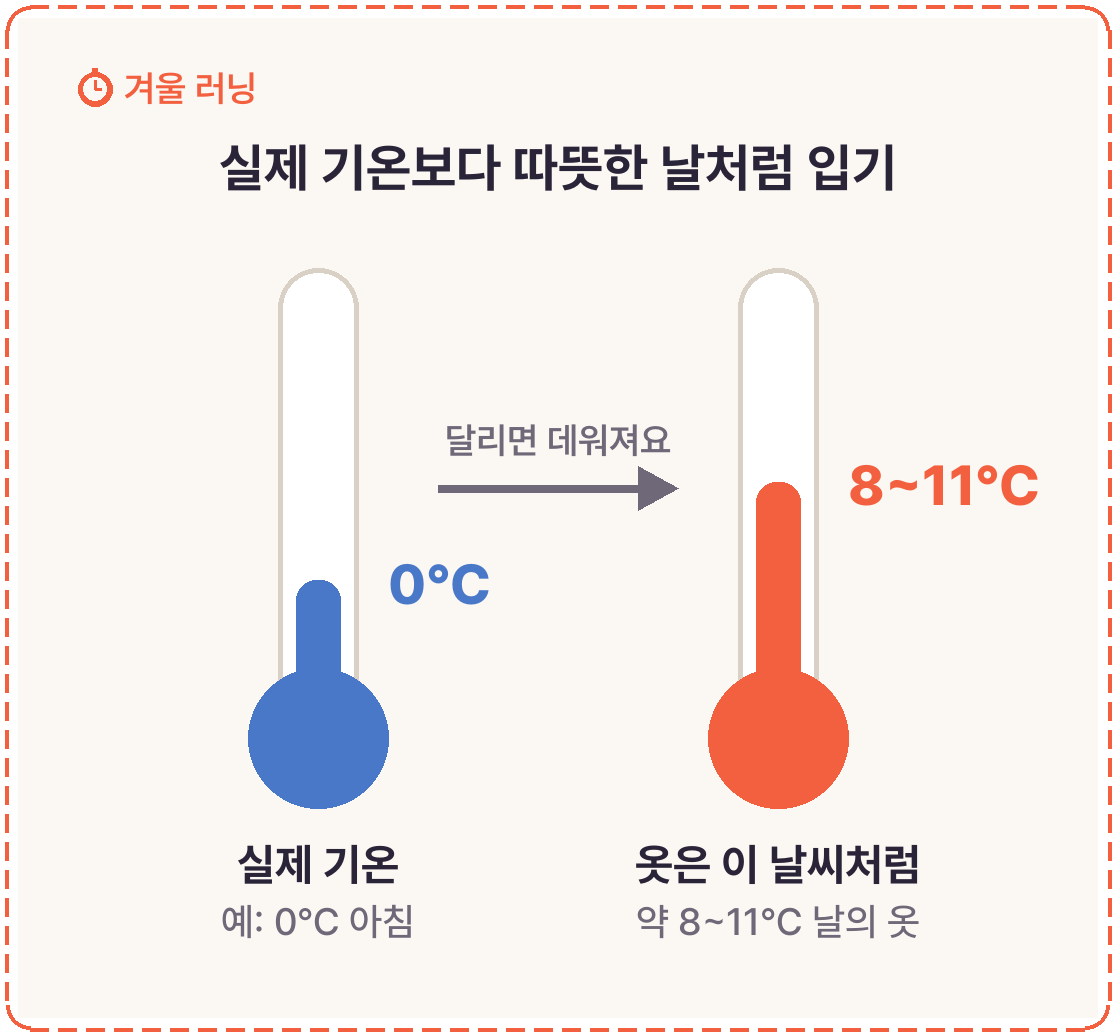
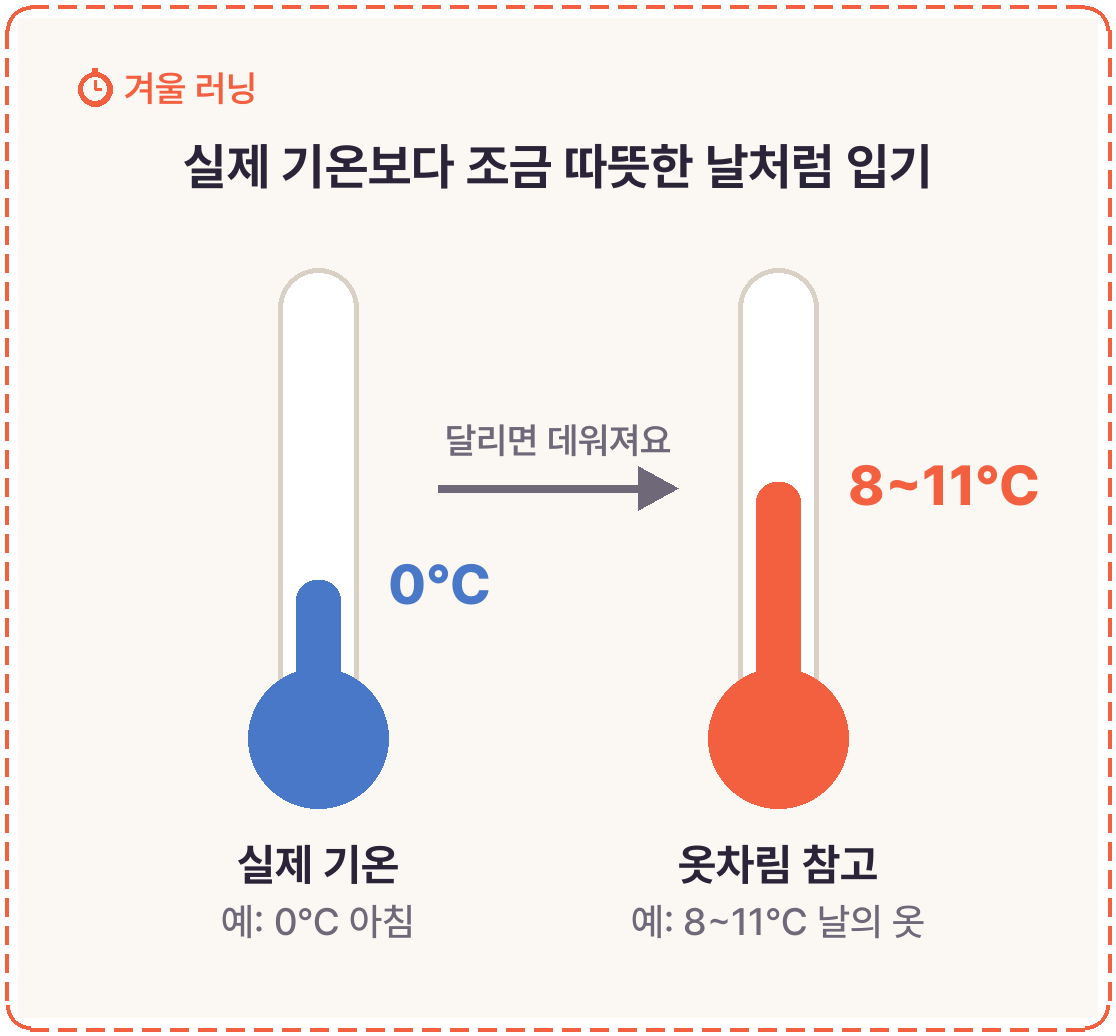
네이버 폰글 「겨울 러닝」 외부 검수 반영(2025~26절기 통계, 표현 다듬기, 그림 03), 검수결과에 반영 내역 기록
Claude-Session: https://claude.ai/code/session_01AQu82WJQ9QwefAwmBKgwrq

Changed region(s): [[0.1523, 0.1236, 0.853, 0.1853], [0.5484, 0.8031, 0.8226, 0.9266]]

diff --git a/문서/네이버-코딩가이드/20261128_겨울-러닝/index.html b/문서/네이버-코딩가이드/20261128_겨울-러닝/index.html
@@ -6,7 +6,7 @@
 글 제목: 겨울 러닝, 몇 도까지 괜찮을까? 옷차림부터 쉬어야 할 날까지
 태그: #겨울러닝 #겨울달리기 #러닝 #러닝크루 #러닝옷차림 #겨울운동 #한랭질환 #저체온증 #한파 #달리기
 검색 설명: 추운 날 달리기, 몇 도까지 괜찮을까요? 질병관리청 한랭질환 수칙을 바탕으로 나가기 전 확인할 것, 얇게 겹쳐 입는 법, 실내 준비운동과 물 마시기, 쉬어야 할 날, 달리고 난 뒤 챙길 것을 정리했습니다.
-글자 수: 본문 공백 포함 1,597자 / 공백 제외 1,238자
+글자 수: 본문 공백 포함 1,715자 / 공백 제외 1,324자
 글 성격: 사용자 지정 '폰글'(폰에서 가볍게 올리는 글. 독자는 폰 글인지 모르게 평소 형식 그대로). 이미지는 요청 없이 AI가 모두 직접 만듦. 붙여넣기용 텍스트는 같은 폴더 `복사용.txt`. 기기·회사 이름은 쓰지 않음.
 계기: 트렌드 집계 사이트(ktrendview) 유튜브 지수 1위 '러닝/러닝크루'(2026-11-28 확인), 기온이 영하로 떨어지는 시기. 사용자가 세 번째 제안 목록 1번을 고름.
 
@@ -20,8 +20,9 @@
 - ChatGPT 요청 없음(폰글 규칙).
 
 [근거]
-- 질병관리청 보도자료 2025-12-01(한랭질환 응급실감시체계): 2024~25 절기 한랭질환자 334명, 실외 발생 74.0%, 저체온증 80.2%. 건강수칙(외출 전 체감온도 확인, 추우면 야외활동 자제, 내복·얇은 옷 겹쳐 입기, 장갑·목도리·모자·마스크, 젖은 옷·신발 신속히 갈아입기). 만성질환자(심뇌혈관·당뇨·고혈압)는 갑작스러운 추위 노출과 무리한 신체활동 피하기.
+- 질병관리청 보도자료 2025-12-01(한랭질환 응급실감시체계): 2024~25 절기 한랭질환자 334명, 실외 발생 74.0%, 저체온증 80.2%(본문은 아래 2025~26 최종 집계로 바꿈). 건강수칙(외출 전 체감온도 확인, 추우면 야외활동 자제, 내복·얇은 옷 겹쳐 입기, 장갑·목도리·모자·마스크, 젖은 옷·신발 신속히 갈아입기). 만성질환자(심뇌혈관·당뇨·고혈압)는 갑작스러운 추위 노출과 무리한 신체활동 피하기.
 - 질병관리청 보도자료 2025-12-31: 2024~25 절기 환자의 21.3%가 음주 상태, '술을 마시면 신체에 열이 올랐다가 체온이 급격히 떨어지지만 추위를 인지하지 못해 위험'. 증상 대처(따뜻한 곳, 젖은 옷 제거, 담요, 동상 부위 따뜻한 물, 빨리 진찰).
+- 질병관리청 보도자료 2026-03-10(2025~2026절기 최종 운영결과): 한랭질환자 364명(사망 14명), 실외 75.0%(273명), 저체온증 79.7%. 외부 검수(2026-11-28) 반영해 본문 통계를 이것으로 바꿈.
 - 질병관리청 2026-01-19: 젊은 층은 동상·동창이 많고 산·스키장·강가 등에서 발생.
 - 클리블랜드 클리닉 Health Essentials(2021-02-11, 스포츠의학 전문의 인터뷰): 실제보다 15~20도 따뜻한 날씨처럼 입기(미국 매체라 화씨로 보고 섭씨 약 8~11도로 환산해 씀), 땀 배출 속옷·밝거나 반사되는 겉옷, 동적 준비운동은 실내에서, 추우면 갈증을 덜 느껴도 땀은 나므로 물 챙기기, 눈·얼음 길은 하루이틀 기다리기, 끝나면 젖은 옷 빨리 갈아입기(실내에서도 저체온 위험). 본문에는 매체 이름 대신 '미국의 한 스포츠의학 전문의'로 씀.
 - 기상청 한파특보 기준(일반 상식으로 씀): 한파주의보는 아침 최저기온 -12℃ 이하가 이틀 이상 이어질 것으로 예상될 때 등, 한파경보는 -15℃ 이하. 특보 발효 여부만 확인하라고 쓰고 기준 숫자는 본문에 넣지 않음(조건이 여러 개라 오해 방지).
@@ -37,9 +38,9 @@
 <hr style="border:none;border-top:1px solid #cfcfcf;margin:8px 0;">
 <h2 style="font-size:24px;margin:40px 0 12px;">몇 도까지 괜찮을까?</h2>
 <p style="font-size:16px;">'몇 도 아래면 달리지 마세요' 같은 정해진 숫자는 없습니다.<br>같은 기온이라도 바람, 햇볕, 몸 상태에 따라 느끼는 추위가 다릅니다.</p>
-<p style="font-size:16px;">그래서 질병관리청은 나가기 전에 기온보다 '체감온도'를 먼저 보라고 안내합니다.<br>날씨가 많이 추우면 야외 활동을 줄이라는 것이 기본 수칙입니다.</p>
-<p style="font-size:16px;">가볍게 넘길 일은 아닙니다.<br>질병관리청 집계로 지난겨울(2024~25년) 한랭질환자는 334명이었고, 74%가 실외에서 생겼습니다.</p>
-<p style="font-size:16px;">기상청 한파주의보나 한파경보가 내린 날이라면 그날은 실내 운동으로 바꾸는 편이 낫습니다.</p>
+<p style="font-size:16px;">질병관리청은 외출하기 전에 체감온도를 확인하고, 추운 날에는 야외 활동을 자제하라고 안내합니다.</p>
+<p style="font-size:16px;">가볍게 넘길 일은 아닙니다.<br>질병관리청 집계로 지난겨울(2025~26년) 한랭질환자는 364명이었고, 75%가 실외에서 생겼습니다.</p>
+<p style="font-size:16px;">한파특보가 내렸거나 바람이 강해 체감온도가 크게 낮은 날이라면, 야외 러닝은 쉬고 실내 운동을 하는 편이 안전합니다.</p>
 
 <p>&nbsp;</p>
 <hr style="border:none;border-top:1px solid #cfcfcf;margin:8px 0;">
@@ -49,7 +50,7 @@
 <p style="font-size:16px;color:#e60000;font-weight:bold;">[[ 이미지: 옷 겹쳐 입기 (02-옷-겹쳐-입기.png) ]]</p>
 
 <p style="font-size:16px;">가장 안쪽 옷이 중요합니다.<br>땀에 젖은 면 티셔츠는 달리기를 멈추는 순간 몸을 빠르게 식힙니다.</p>
-<p style="font-size:16px;">손, 귀, 목은 먼저 차가워지는 곳입니다.<br>질병관리청도 장갑, 모자, 목도리를 함께 챙기라고 권합니다.</p>
+<p style="font-size:16px;">귀와 손처럼 찬 바람에 그대로 드러나는 곳은 모자와 장갑으로 가려 주세요.<br>질병관리청도 장갑, 모자, 목도리를 함께 챙기라고 권합니다.</p>
 
 <p>&nbsp;</p>
 <h3 style="font-size:18px;margin:24px 0 8px;">▶ 출발할 땐 살짝 춥게</h3>
@@ -57,7 +58,8 @@
 
 <p style="font-size:16px;color:#e60000;font-weight:bold;">[[ 이미지: 살짝 춥게 입기 (03-살짝-춥게-입기.png) ]]</p>
 
-<p style="font-size:16px;">문 앞에서 '조금 춥다' 싶은 정도가 알맞습니다.<br>처음부터 따뜻하면 10분 뒤엔 땀범벅이 되기 쉽습니다.</p>
+<p style="font-size:16px;">문 앞에서 '조금 춥다' 싶은 정도가 알맞습니다.<br>처음부터 두껍게 입으면 달리는 동안 땀이 지나치게 날 수 있습니다.</p>
+<p style="font-size:16px;">다만 바람이 세거나 아주 추운 날에는 얇게 입기보다 보온이 먼저입니다.<br>그날 몸 상태에 맞춰 한 겹씩 더하거나 빼세요.</p>
 
 <p>&nbsp;</p>
 <hr style="border:none;border-top:1px solid #cfcfcf;margin:8px 0;">
@@ -72,22 +74,23 @@
 <p style="font-size:16px;">• 그늘진 길, 다리 위, 물가 산책로는 살얼음이 남기 쉬워요</p>
 <p style="font-size:16px;">• 눈이나 얼음이 덮인 길이면 하루이틀 녹기를 기다리기</p>
 <p style="font-size:16px;">• 해가 짧으니 밝은 색이나 반사 띠가 있는 겉옷 입기</p>
+<p style="font-size:16px;">• 미끄러운 보도를 피해 차도로 내려가지 말고, 눈을 치운 보행로로 달리기</p>
 <p style="font-size:16px;">• 멀리 가지 말고 집 근처를 도는 코스로</p>
 
 <p>&nbsp;</p>
 <h3 style="font-size:18px;margin:24px 0 8px;color:#d9502f;">▶ 이런 날은 쉬어 가기</h3>
 <p style="font-size:16px;">• 한파특보가 내렸거나 바람이 유난히 센 날</p>
-<p style="font-size:16px;">• 전날 술을 많이 마신 날</p>
+<p style="font-size:16px;">• 술을 마신 뒤</p>
 <p style="font-size:16px;">• 심장·뇌혈관 질환, 고혈압, 당뇨가 있어 추위가 부담스러운 날</p>
 <p>&nbsp;</p>
-<p style="font-size:16px;">질병관리청에 따르면 지난겨울 한랭질환자의 21.3%가 술을 마신 상태였습니다.<br>술을 마시면 몸이 잠깐 데워졌다가 체온이 빠르게 떨어지는데, 추위를 잘 느끼지 못해 위험합니다.</p>
+<p style="font-size:16px;">질병관리청에 따르면 2024~25년 겨울 한랭질환자의 21.3%가 병원에 올 때 술을 마신 상태였습니다.<br>술을 마시면 몸이 잠깐 데워졌다가 체온이 빠르게 떨어지는데, 추위를 잘 느끼지 못해 위험합니다.</p>
 <p style="font-size:16px;">만성질환이 있다면 갑자기 찬 공기에 나가거나 무리하게 움직이는 것을 피하라는 것이 질병관리청 안내입니다.</p>
 
 <p>&nbsp;</p>
 <hr style="border:none;border-top:1px solid #cfcfcf;margin:8px 0;">
-<h2 style="font-size:24px;margin:40px 0 12px;">달리고 난 뒤 10분</h2>
+<h2 style="font-size:24px;margin:40px 0 12px;">달리고 난 뒤 바로 챙길 것</h2>
 <p style="font-size:16px;">기록을 확인하기 전에 젖은 옷부터 갈아입으세요.<br>실내에 들어와서도 젖은 옷을 입고 있으면 체온이 계속 떨어집니다.</p>
-<p style="font-size:16px;">손끝이나 귀가 하얗게 질리고 감각이 둔하다면 동상을 의심해 볼 수 있습니다.<br>따뜻한 곳으로 옮겨 젖은 옷을 벗고, 증상이 이어지면 빨리 진료를 받는 것이 좋습니다.</p>
+<p style="font-size:16px;">손끝이나 귀가 하얗게 변하거나 감각이 둔해지면 동상일 수 있습니다.<br>따뜻한 곳으로 옮겨 젖은 옷을 벗고, 되도록 빨리 진료를 받으세요.</p>
 <p style="font-size:16px;">겨울 달리기는 기록보다 '다치지 않고 꾸준히'가 먼저인 것 같아요.<br>오늘이 너무 춥다면 내일 달려도 늦지 않습니다.</p>
 
 <p style="font-size:16px;color:#e60000;font-weight:bold;">[[ 이미지: 함께 보면 좋은 글 (05-함께-보면-좋은-글.png) ]]</p>

diff --git a/도구/폰글이미지_겨울러닝.py b/도구/폰글이미지_겨울러닝.py
@@ -122,7 +122,7 @@ def thermo():
     W, H = 1080, 1000
     im = Image.new("RGB", (W, H), BG); d = ImageDraw.Draw(im)
     kicker(d, 60, 48)
-    ctext(d, W / 2, 118, "실제 기온보다 따뜻한 날처럼 입기", F(52), INK)
+    ctext(d, W / 2, 118, "실제 기온보다 조금 따뜻한 날처럼 입기", F(50), INK)
     def therm(cx, level, col, lab1, lab2, temp):
         d.rounded_rectangle((cx - 40, 250, cx + 40, 700), 40, fill="white", outline="#d9d0c6", width=5)
         d.ellipse((cx - 70, 650, cx + 70, 790), fill=col)
@@ -132,7 +132,7 @@ def thermo():
         ctext(d, cx, 880, lab2, F(38, "Medium"), GRAY)
         d.text((cx + 70, top - 30), temp, font=F(56, "ExtraBold"), fill=col)
     therm(300, .32, SKY, "실제 기온", "예: 0℃ 아침", "0℃")
-    therm(760, .55, COR, "옷은 이 날씨처럼", "약 8~11℃ 날의 옷", "8~11℃")
+    therm(760, .55, COR, "옷차림 참고", "예: 8~11℃ 날의 옷", "8~11℃")
     # 화살표
     d.line((420, 470, 620, 470), fill=GRAY, width=8)
     d.polygon(((620, 448), (660, 470), (620, 492)), fill=GRAY)

diff --git a/작성히스토리.md b/작성히스토리.md
@@ -104,7 +104,7 @@
   - 2026.11.27 **뉴욕 타코 맛집 LOS TACOS No.1, 주문하는 법과 메뉴**
     - 뉴욕 타임스스퀘어점(229 W 43rd St) 방문 후기, 계산대 주문 → 표 받기 → 만드는 곳에 표 내기('NO TICKET NO TACO'), 타코 속재료 네 가지(아사다·포요·아도바다·노팔)와 '콘 토도', 공식 누리집 기준 가격·영업시간, 서서 먹는 구조 · `뉴욕 맛집, 뉴욕 타코, LOS TACOS No.1, 타임스스퀘어 맛집, 아도바다`
   - 2026.11.28 **겨울 러닝, 몇 도까지 괜찮을까? 옷차림부터 쉬어야 할 날까지**
-    - 추운 날 달리기 전 확인할 것(정해진 기온 기준은 없고 체감온도·한파특보 확인), 한랭질환자 334명·실외 74%(질병관리청), 얇게 세 겹 입기와 '살짝 춥게' 출발, 실내 준비운동·물, 길 고르기, 쉬어야 할 날(음주 21.3%·만성질환), 달린 뒤 젖은 옷 갈아입기 · `겨울 러닝, 겨울 달리기, 러닝 옷차림, 한랭질환, 저체온증`
+    - 추운 날 달리기 전 확인할 것(정해진 기온 기준은 없고 체감온도·한파특보 확인), 지난겨울(2025~26) 한랭질환자 364명·실외 75%(질병관리청), 얇게 세 겹 입기와 '살짝 춥게' 출발, 실내 준비운동·물, 길 고르기(차도로 내려가지 않기), 쉬어야 할 날(술 마신 뒤·만성질환), 달린 뒤 젖은 옷 갈아입기 · `겨울 러닝, 겨울 달리기, 러닝 옷차림, 한랭질환, 저체온증`
 - **생활 정보**
   - 2026.11.14 **11월 19일 수능, 올해가 마지막 선택형 수능인 이유**
     - 2027 수능이 마지막 선택형인 이유, 수능 날 바뀌는 것, 2028 통합형 개편 비교 · `수능, 선택형, 2028 개편, 통합수능, 수능 날`
@@ -2152,7 +2152,7 @@
 
 #### 2026.11.28 · 겨울 러닝, 몇 도까지 괜찮을까? 옷차림부터 쉬어야 할 날까지
 - 분류: 여행·취미·문화
-- 요약: [폰글] 겨울 달리기는 정해진 기온 기준이 없어 체감온도와 한파특보를 먼저 확인, 2024~25 절기 한랭질환자 334명·실외 74%(질병관리청), 얇게 세 겹(속은 땀이 빨리 마르는 옷)과 모자·장갑·목 가리개, 실제보다 따뜻한 날처럼 입기(0℃면 약 8~11℃ 날의 옷), 실내 준비운동·물 조금씩, 그늘·다리 위·물가 피하기, 쉬어야 할 날(한파특보·음주 21.3%·심뇌혈관 질환 등), 달린 뒤 젖은 옷 바로 갈아입기와 동상 증상
+- 요약: [폰글] 겨울 달리기는 정해진 기온 기준이 없어 체감온도와 한파특보를 먼저 확인, 2025~26 절기 한랭질환자 364명·실외 75%(질병관리청 최종 집계, 외부 검수 반영), 얇게 세 겹(속은 땀이 빨리 마르는 옷)과 모자·장갑·목 가리개, 실제보다 따뜻한 날처럼 입기(0℃면 약 8~11℃ 날의 옷), 실내 준비운동·물 조금씩, 그늘·다리 위·물가 피하기, 쉬어야 할 날(한파특보·술 마신 뒤·심뇌혈관 질환 등, 음주 21.3%는 2024~25 절기), 달린 뒤 젖은 옷 바로 갈아입기와 동상 증상
 - 키워드: 겨울 러닝, 겨울 달리기, 러닝 옷차림, 겨울 운동, 한랭질환, 저체온증
 - 검색 설명(발행 메모): 추운 날 달리기, 몇 도까지 괜찮을까요? 질병관리청 한랭질환 수칙을 바탕으로 나가기 전 확인할 것, 얇게 겹쳐 입는 법, 실내 준비운동과 물 마시기, 쉬어야 할 날, 달리고 난 뒤 챙길 것을 정리했습니다.
 - 태그: #겨울러닝 #겨울달리기 #러닝 #러닝크루 #러닝옷차림 #겨울운동 #한랭질환 #저체온증 #한파 #달리기
